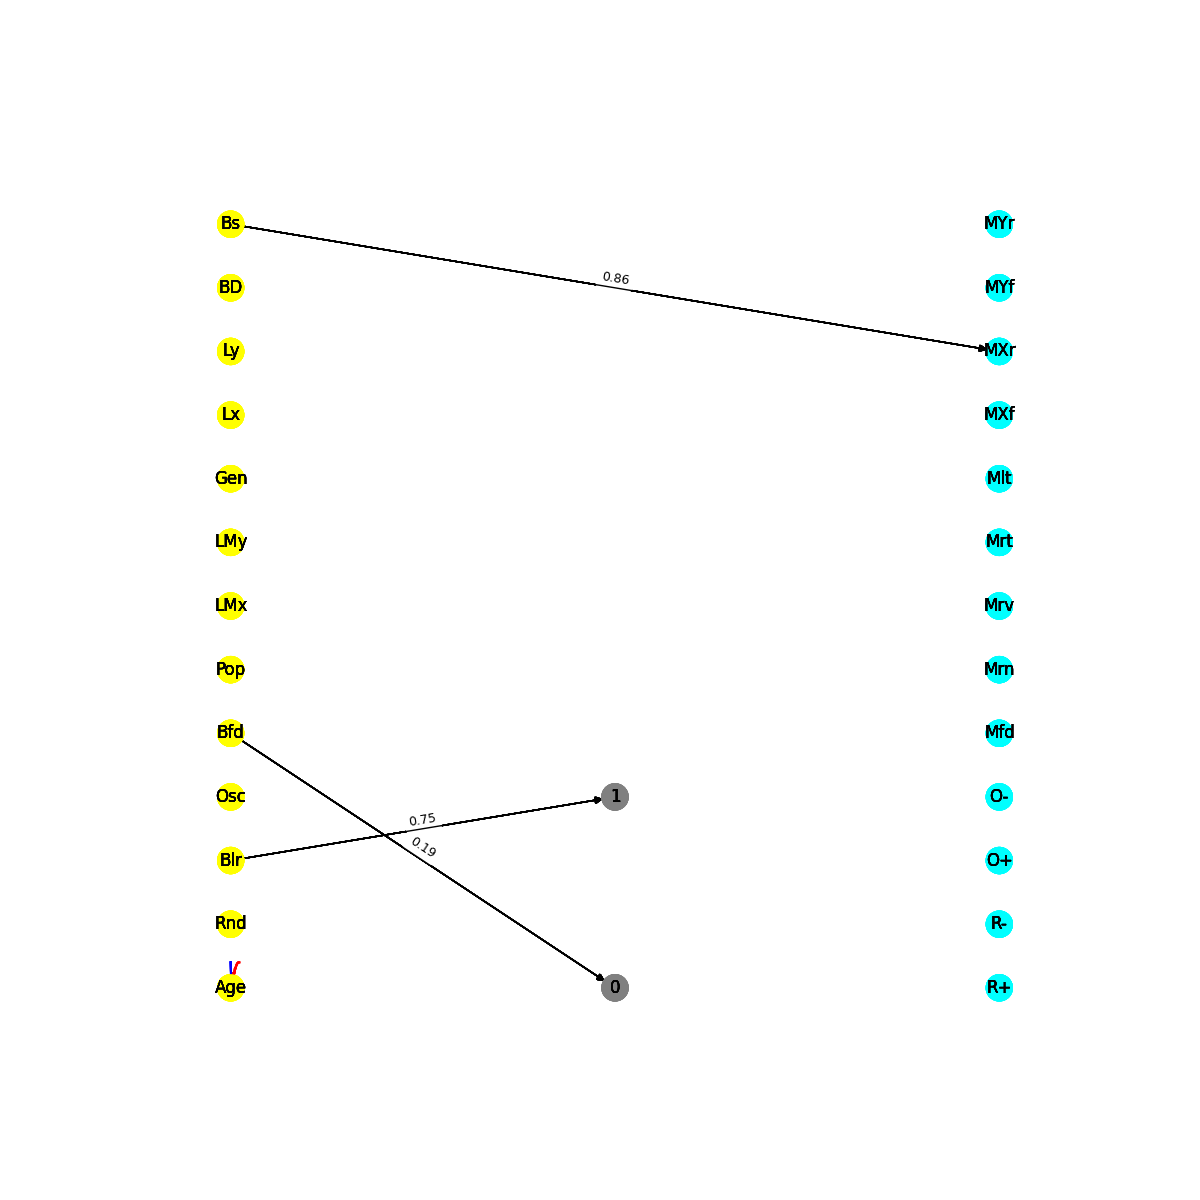
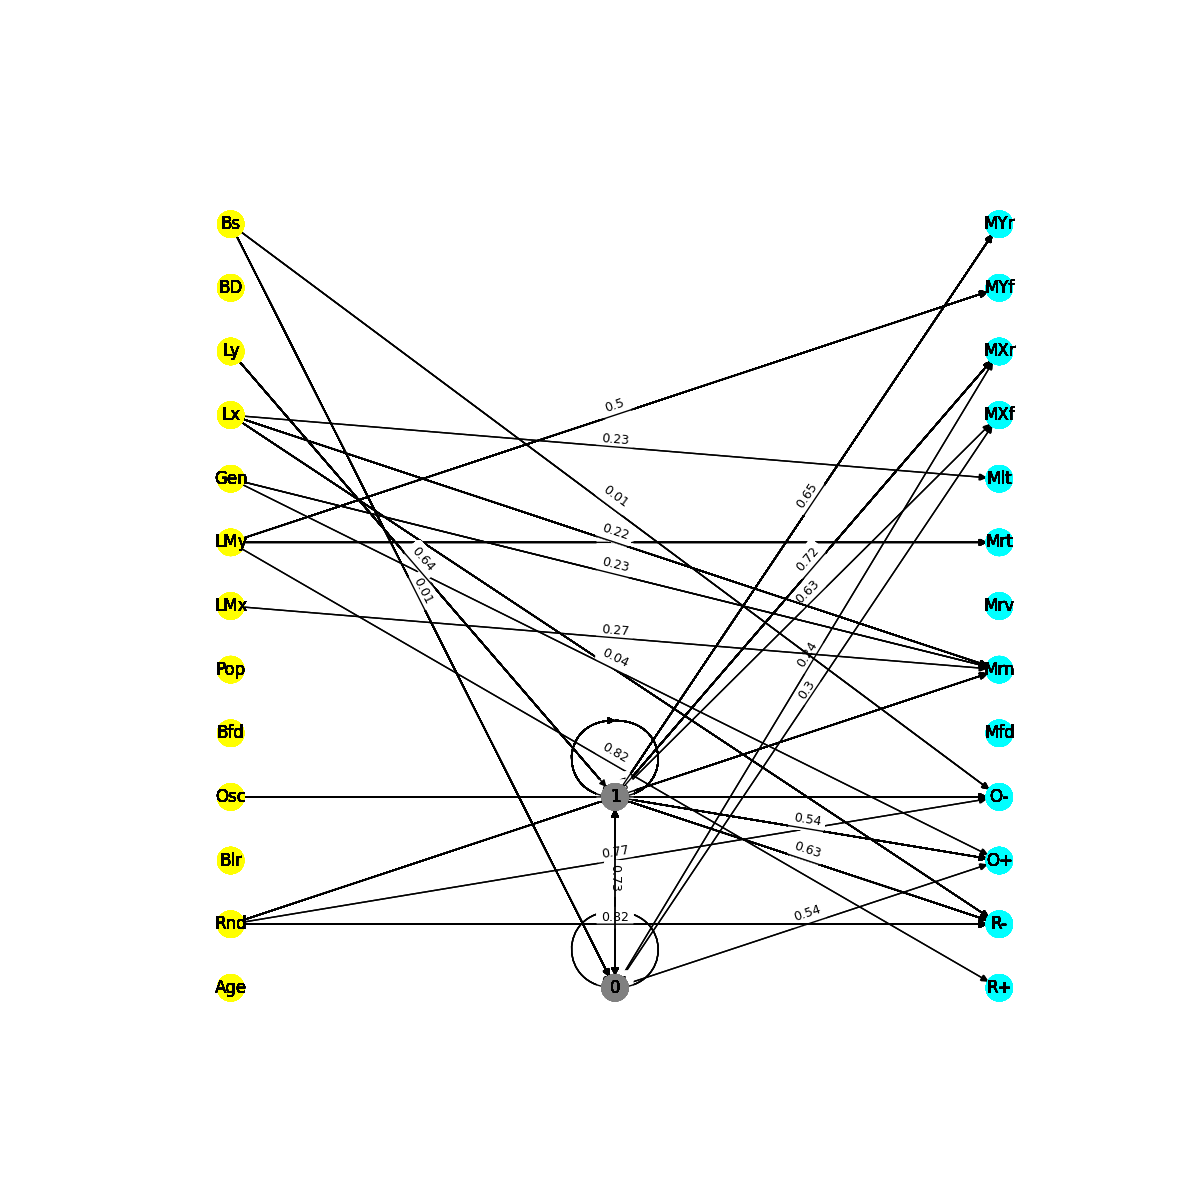
misc updates

diff --git a/main.py b/main.py
@@ -28,9 +28,9 @@ def main():
 
 	STEPS_PER_GENERATION = 200
 	N_GENERATIONS = 1000
-	POPULATION = 100
+	POPULATION = 200
 	MUTATION_RATE = 0.005
-	N_PARENTS = 1
+	N_PARENTS = 10
 
 	# Statistics
 	survival_rate_stat = []
@@ -90,7 +90,7 @@ def main():
 						cell.think()
 
 						# Execute decision
-						decision_list = cell.execute_decision()
+						decision_list = cell.execute_decision(multiple_actions=True)
 						
 						# Grow
 						cell.age_up()
@@ -116,8 +116,9 @@ def main():
 
 				survival_rate = environment.enact_selection_pressure()
 
-				if survival_rate > 95:
-					environment.get_cells()[0].draw_brain()
+				#if survival_rate > 10:
+				#	environment.get_cells()[0].draw_brain()
+				
 				survival_rate_stat.append(survival_rate)
 				if survival_rate == 0:
 					print('Everyone Died!')
@@ -126,14 +127,14 @@ def main():
 					quit()
 				else:
 					environment.get_next_generation(n_parents=N_PARENTS, new_population=NEW_POPULATION)
-
-				plt.figure()
+				
 				plt.plot(survival_rate_stat, label='Percent Surviving', color='red')
 				plt.plot(genetic_diversity_stat, label='Genetic Diversity', color='blue')
 				plt.xlabel('Generation')
 				if generation == 0:
 					plt.legend()
 				plt.savefig('stats.png')
+				
 
 				
 				print(f'Genetic Diversity: {round(genetic_diversity, 2)}%, Survival Rate: {round(survival_rate, 2)}%.')

diff --git a/cell.py b/cell.py
@@ -110,9 +110,13 @@ class Cell:
 	def think(self):
 		self.brain.forward_pass()
 
-	def execute_decision(self):
+	def execute_decision(self, multiple_actions=True):
 
-		decision_list = self.brain.get_decisions()
+		if multiple_actions:
+			decision_list = self.brain.get_decisions()
+		else:
+			decision_list = [self.brain.get_primary_decision()]
+		
 		dirs = [-1, 0, 1]
 
 		for decision in decision_list:
@@ -144,7 +148,8 @@ class Cell:
 			elif decision == 'O+':	# increase oscillator delay
 				self.oscillator_delay += 1
 			elif decision == 'O-':	# decrease oscillator delay to a min of 2
-				self.oscillator_delay = max(2, self.oscillator_delay - 1)			
+				self.oscillator_delay = max(2, self.oscillator_delay - 1)
+
 	
 		return decision_list
 
@@ -192,6 +197,7 @@ class Cell:
 			return 0
 		return 1
 
+	# 0 to 1
 	def calculate_population_density_(self):
 
 		total_nearby_population = -1 # don't count self
@@ -204,7 +210,7 @@ class Cell:
 				if info > 0:
 					total_nearby_population += 1
 
-		return total_nearby_population / (2 * radius)**2
+		return total_nearby_population / ((2 * radius)**2 - 1)
 
 	def calculate_genetic_similarity_of_forward_neighbor(self):
 

diff --git a/brain.py b/brain.py
@@ -189,10 +189,24 @@ class Brain:
 			action_neuron_activation = self.action_neurons[key].get_activation()
 			action_neuron_threshold = self.action_neurons[key].get_threshold()
 
-			if action_neuron_activation > action_neuron_threshold:
+			if action_neuron_activation >= action_neuron_threshold:
 				action_list.append(key)
 
 		return action_list
+
+	def get_primary_decision(self):
+
+		activations = {} # activation: decision
+
+		for key in self.action_neurons.keys():
+			action_neuron_activation = self.action_neurons[key].get_activation()
+			activations[action_neuron_activation] = key
+
+		max_activation = np.max(list(activations.keys()))
+		action = activations[max_activation]
+		if max_activation > self.action_neurons[action].get_threshold():
+			return action
+
 
 	def update_responsiveness(self, change):
 
@@ -277,6 +291,7 @@ class Brain:
 		nx.draw_networkx_edge_labels(G, pos, edge_labels, font_size=9, verticalalignment='bottom')
 		nx.draw(G, pos, node_color=color_map, node_size=350, with_labels=True)
 		plt.savefig('brain.png')
+		plt.figure()
 		#plt.show()
 
 

diff --git a/environment.py b/environment.py
@@ -4,8 +4,8 @@ import numpy as np
 
 from cell import Cell
 
-n_genes = 10
-n_inner_neurons = 2
+n_genes = 20
+n_inner_neurons = 3
 
 class Environment:
 
@@ -168,10 +168,12 @@ class Environment:
 		for i in range(len(self.cells)):
 			cell = self.cells[i]
 
-			#death_condition = (cell.get_x() > 3 and cell.get_y() > 3 and cell.get_x() < 197 and cell.get_y() < 197)
-			#death_condition = False
-			death_condition = cell.get_x() > 100
+			death_condition_1 = (cell.get_x() > 3 and cell.get_y() > 3 and cell.get_x() < 197 and cell.get_y() < 197)
+			death_condition_2 = cell.calculate_population_density_() < 0.05
+			#death_condition = cell.get_y() > (2 * cell.get_x() + 75) or cell.get_y() < (2 * cell.get_x() + 50)
+			#death_condition = cell.get_x() > 100
 			# Kill all cells on the right side of the board
+			death_condition = (not death_condition_1) or death_condition_2
 			if not death_condition:
 				new_cell_arr.append(cell)
 			else:

diff --git a/README.md b/README.md
@@ -1,3 +1,4 @@
 # evolution-sim
 
 
+https://mxrtin-beep.github.io/evo-sim.html
